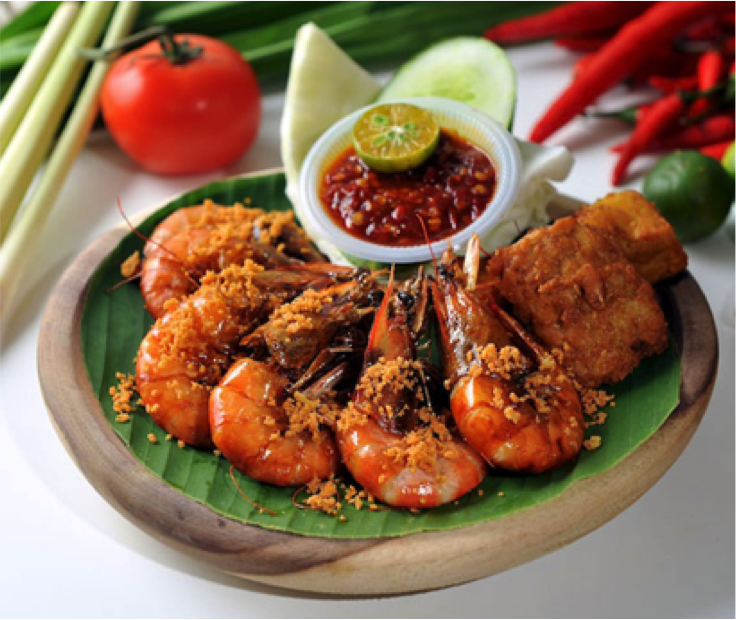
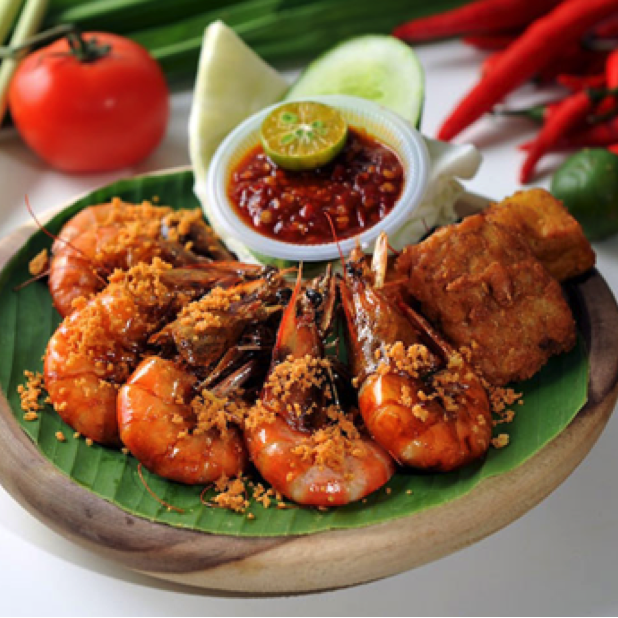
google map remove pan since its not working, and updated image

diff --git a/food/static/scripts/restaurant.min.js b/food/static/scripts/restaurant.min.js
@@ -1,1 +1,1 @@
-function initializemap(){"use strict";if(null===mapInfo)return setTimeout(function(){initializemap()},50),console.log("wait"),void 0;var t={center:{lat:parseFloat(mapInfo.location_x),lng:parseFloat(mapInfo.location_y)},zoom:14,mapTypeControl:!1,scaleControl:!1,zoomControl:!1,panControl:!0,draggable:!1,streetViewControl:!1},a=new google.maps.Map(document.getElementById("map-canvas"),t),o=new google.maps.LatLng(parseFloat(mapInfo.location_x),parseFloat(mapInfo.location_y)),e=new google.maps.Marker({position:o,map:a,title:name});e.setMap(a)}!function(){"use strict";function t(){$.getJSON(window.apiUrl+"/restaurant/"+d+"/"+window.username+"/",function(t){n=t.foods,s=t.deals,m=t.reviews,mapInfo={location_x:t.location_x,location_y:t.location_y,name:t.name},console.log(t),$(".sub-name").text(t.name),$(".main-div").html(u(t)).promise().done(function(){a()}),$(".review-button").click(function(){window.location="review-restaurant.html?restaurant_id="+t.restaurant_id})})}function a(){"reviews"===getParameterByName("nav")&&setTimeout(function(){$(".infopage").eq(2).click();var t=getParameterByName("review_id");$(".review-items").children().each(function(){return parseInt(t)===parseInt($(this).data("id"))?($(this).click(),void 0):void 0})},1e3),$(".follow-button").click(function(a){var o=$(this).data("id");$.getJSON(window.apiUrl+"/restaurant/follow/"+o+"/"+window.username+"/",function(){t()}),$(this).toggleClass("following"),a.stopPropagation()}),$(".share-button").click(function(){if($(this).toggleClass("clicked"),$(this).hasClass("clicked")){$(this).attr("src","images/icons/share.svg"),$(".circle.share").show(),$(".circle.share").css({opacity:1});var t=$(".circle.share"),a=Math.PI/4*2/t.length,o=0,e=0,i=Math.PI/2;$(".circle.share").each(function(){o=150*Math.cos(i),e=160*Math.sin(i)-45,$(this).animate({right:o,top:e}),i-=a})}else $(".circle.share").animate({right:0,top:0,opacity:0},function(){$(".circle.share").hide(),$(".share-button").attr("src","images/icons/share-o.svg")})});var a;$(".circle.share").click(function(){var t=$(this).data("type");clearTimeout(a),$(".share-confirmation").show(),$(".share-confirmation .site").text(t),$(".share-confirmation").animate({bottom:15,opacity:1},500,function(){a=setTimeout(function(){$(".share-confirmation").animate({bottom:-100,opacity:0},function(){$(".share-confirmation").hide()})},1500)})}),$(".menu-items .modal-button").click(function(){l=$(this).data("index"),o(l);var t=$(this).attr("id");$("#modal-"+t).addClass("open"),$("#modal-"+t+" .modal").animate({marginTop:$(window).height()/9})}),$(".review-items .modal-button").click(function(){c=$(this).data("index"),e(c);var t=$(this).attr("id");$("#modal-"+t).addClass("open"),$("#modal-"+t+" .modal").animate({marginTop:$(window).height()/9})}),$(".deal-items .modal-button").click(function(){r=$(this).data("index"),i(r);var t=$(this).attr("id");$("#modal-"+t).addClass("open"),$("#modal-"+t+" .modal").animate({marginTop:$(window).height()/11})})}function o(t){var a=0!==t,e=t!==n.length-1;$("#modal-menu-item .modal").html(f({not_first:a,not_last:e,item:n[t]}));var i=$("#modal-menu-item .photo img").width();$("#modal-menu-item .photo img").height(i),$(".controls .right").click(function(t){l!==n.length-1&&(o(++l),t.stopPropagation())}),$(".controls .left").click(function(t){0!==l&&(o(--l),t.stopPropagation())})}function e(t){var a=0!==t,o=t!==m.length-1;$("#modal-review-item .modal").html(b({not_first:a,not_last:o,item:m[t]}));var i=$("#modal-review-item .photo img").width();$("#modal-review-item .photo img").height(i);var n=$("#modal-review-item .modal").height(),l=$("#modal-review-item .info").height(),s=l+i-n;$("#modal-review-item .modal").height(n+s+20),$(".controls .right").click(function(t){c!==m.length-1&&(e(++c),t.stopPropagation())}),$(".controls .left").click(function(t){0!==c&&(e(--c),t.stopPropagation())})}function i(t){var a=0!==t,o=t!==s.length-1;$("#modal-restaurant-deals .modal").html(v({not_first:a,not_last:o,deals:s[t]}));var e=$("#modal-restaurant-deals .photo img").width();$("#modal-restaurant-deals .photo img").height(e);var n=$("#modal-restaurant-deals .modal").height(),l=$("#modal-restaurant-deals .info").height(),m=l+e-n;$("#modal-restaurant-deals .modal").height(n+m+20),$(".controls .right").click(function(t){r!==s.length-1&&(i(++r),t.stopPropagation())}),$(".controls .left").click(function(t){0!==r&&(i(--r),t.stopPropagation())})}var n,l,s,r,m,c,d=getParameterByName("id"),h=$("#restaurant-template").html(),u=Handlebars.compile(h),p=$("#menu-template").html(),f=Handlebars.compile(p),g=$("#deals-template").html(),v=Handlebars.compile(g),w=$("#review-template").html(),b=Handlebars.compile(w),k=!1;$(".main-div").scroll(function(){var t=-$(".main-photo").offset().top-$(".main-div").offset().top;return t>5?($(".sub-nav").removeClass("hidden"),t>100&&(t=100),$(".sub-nav").css({opacity:t/100}),k||$(".sub-nav").children().each(function(){var t=$(this).data("anchor"),a=$("."+t).offset().top-$(".main-div").offset().top-$(".sub-nav").offset().top;0>a&&($(".sub-nav-item").removeClass("selected"),$(this).addClass("selected"))}),void 0):($(".sub-nav").addClass("hidden"),void 0)}),$(".sub-nav-item").click(function(){$(".sub-nav-item").removeClass("selected"),$(this).addClass("selected");var t=$(this).data("anchor");k=!0,$(".main-div").animate({scrollTop:$("."+t).offset().top-$(".main-photo").offset().top-$(".sub-nav").height()},1e3,function(){k=!1})}),t()}();var mapInfo=null;
+function initializemap(){"use strict";if(null===mapInfo)return setTimeout(function(){initializemap()},50),console.log("wait"),void 0;var t={center:{lat:parseFloat(mapInfo.location_x),lng:parseFloat(mapInfo.location_y)},zoom:14,mapTypeControl:!1,scaleControl:!1,zoomControl:!1,draggable:!1,streetViewControl:!1},a=new google.maps.Map(document.getElementById("map-canvas"),t),o=new google.maps.LatLng(parseFloat(mapInfo.location_x),parseFloat(mapInfo.location_y)),e=new google.maps.Marker({position:o,map:a,title:name});e.setMap(a)}!function(){"use strict";function t(){$.getJSON(window.apiUrl+"/restaurant/"+d+"/"+window.username+"/",function(t){n=t.foods,s=t.deals,m=t.reviews,mapInfo={location_x:t.location_x,location_y:t.location_y,name:t.name},console.log(t),$(".sub-name").text(t.name),$(".main-div").html(u(t)).promise().done(function(){a()}),$(".review-button").click(function(){window.location="review-restaurant.html?restaurant_id="+t.restaurant_id})})}function a(){"reviews"===getParameterByName("nav")&&setTimeout(function(){$(".infopage").eq(2).click();var t=getParameterByName("review_id");$(".review-items").children().each(function(){return parseInt(t)===parseInt($(this).data("id"))?($(this).click(),void 0):void 0})},1e3),$(".follow-button").click(function(a){var o=$(this).data("id");$.getJSON(window.apiUrl+"/restaurant/follow/"+o+"/"+window.username+"/",function(){t()}),$(this).toggleClass("following"),a.stopPropagation()}),$(".share-button").click(function(){if($(this).toggleClass("clicked"),$(this).hasClass("clicked")){$(this).attr("src","images/icons/share.svg"),$(".circle.share").show(),$(".circle.share").css({opacity:1});var t=$(".circle.share"),a=Math.PI/4*2/t.length,o=0,e=0,i=Math.PI/2;$(".circle.share").each(function(){o=150*Math.cos(i),e=160*Math.sin(i)-45,$(this).animate({right:o,top:e}),i-=a})}else $(".circle.share").animate({right:0,top:0,opacity:0},function(){$(".circle.share").hide(),$(".share-button").attr("src","images/icons/share-o.svg")})});var a;$(".circle.share").click(function(){var t=$(this).data("type");clearTimeout(a),$(".share-confirmation").show(),$(".share-confirmation .site").text(t),$(".share-confirmation").animate({bottom:15,opacity:1},500,function(){a=setTimeout(function(){$(".share-confirmation").animate({bottom:-100,opacity:0},function(){$(".share-confirmation").hide()})},1500)})}),$(".menu-items .modal-button").click(function(){l=$(this).data("index"),o(l);var t=$(this).attr("id");$("#modal-"+t).addClass("open"),$("#modal-"+t+" .modal").animate({marginTop:$(window).height()/9})}),$(".review-items .modal-button").click(function(){c=$(this).data("index"),e(c);var t=$(this).attr("id");$("#modal-"+t).addClass("open"),$("#modal-"+t+" .modal").animate({marginTop:$(window).height()/9})}),$(".deal-items .modal-button").click(function(){r=$(this).data("index"),i(r);var t=$(this).attr("id");$("#modal-"+t).addClass("open"),$("#modal-"+t+" .modal").animate({marginTop:$(window).height()/11})})}function o(t){var a=0!==t,e=t!==n.length-1;$("#modal-menu-item .modal").html(f({not_first:a,not_last:e,item:n[t]}));var i=$("#modal-menu-item .photo img").width();$("#modal-menu-item .photo img").height(i),$(".controls .right").click(function(t){l!==n.length-1&&(o(++l),t.stopPropagation())}),$(".controls .left").click(function(t){0!==l&&(o(--l),t.stopPropagation())})}function e(t){var a=0!==t,o=t!==m.length-1;$("#modal-review-item .modal").html(b({not_first:a,not_last:o,item:m[t]}));var i=$("#modal-review-item .photo img").width();$("#modal-review-item .photo img").height(i);var n=$("#modal-review-item .modal").height(),l=$("#modal-review-item .info").height(),s=l+i-n;$("#modal-review-item .modal").height(n+s+20),$(".controls .right").click(function(t){c!==m.length-1&&(e(++c),t.stopPropagation())}),$(".controls .left").click(function(t){0!==c&&(e(--c),t.stopPropagation())})}function i(t){var a=0!==t,o=t!==s.length-1;$("#modal-restaurant-deals .modal").html(v({not_first:a,not_last:o,deals:s[t]}));var e=$("#modal-restaurant-deals .photo img").width();$("#modal-restaurant-deals .photo img").height(e);var n=$("#modal-restaurant-deals .modal").height(),l=$("#modal-restaurant-deals .info").height(),m=l+e-n;$("#modal-restaurant-deals .modal").height(n+m+20),$(".controls .right").click(function(t){r!==s.length-1&&(i(++r),t.stopPropagation())}),$(".controls .left").click(function(t){0!==r&&(i(--r),t.stopPropagation())})}var n,l,s,r,m,c,d=getParameterByName("id"),h=$("#restaurant-template").html(),u=Handlebars.compile(h),p=$("#menu-template").html(),f=Handlebars.compile(p),g=$("#deals-template").html(),v=Handlebars.compile(g),w=$("#review-template").html(),b=Handlebars.compile(w),k=!1;$(".main-div").scroll(function(){var t=-$(".main-photo").offset().top-$(".main-div").offset().top;return t>5?($(".sub-nav").removeClass("hidden"),t>100&&(t=100),$(".sub-nav").css({opacity:t/100}),k||$(".sub-nav").children().each(function(){var t=$(this).data("anchor"),a=$("."+t).offset().top-$(".main-div").offset().top-$(".sub-nav").offset().top;0>a&&($(".sub-nav-item").removeClass("selected"),$(this).addClass("selected"))}),void 0):($(".sub-nav").addClass("hidden"),void 0)}),$(".sub-nav-item").click(function(){$(".sub-nav-item").removeClass("selected"),$(this).addClass("selected");var t=$(this).data("anchor");k=!0,$(".main-div").animate({scrollTop:$("."+t).offset().top-$(".main-photo").offset().top-$(".sub-nav").height()},1e3,function(){k=!1})}),t()}();var mapInfo=null;
